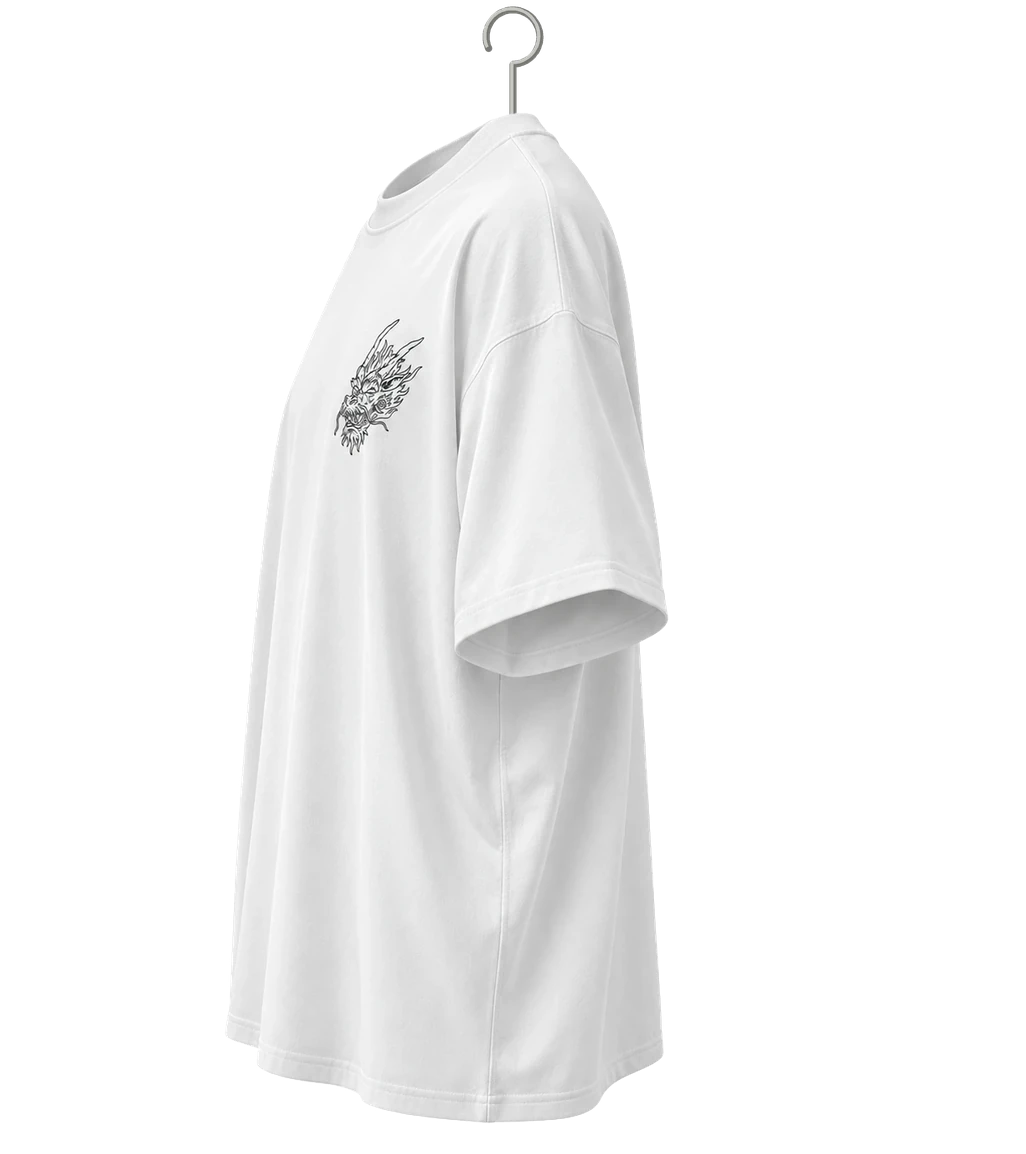
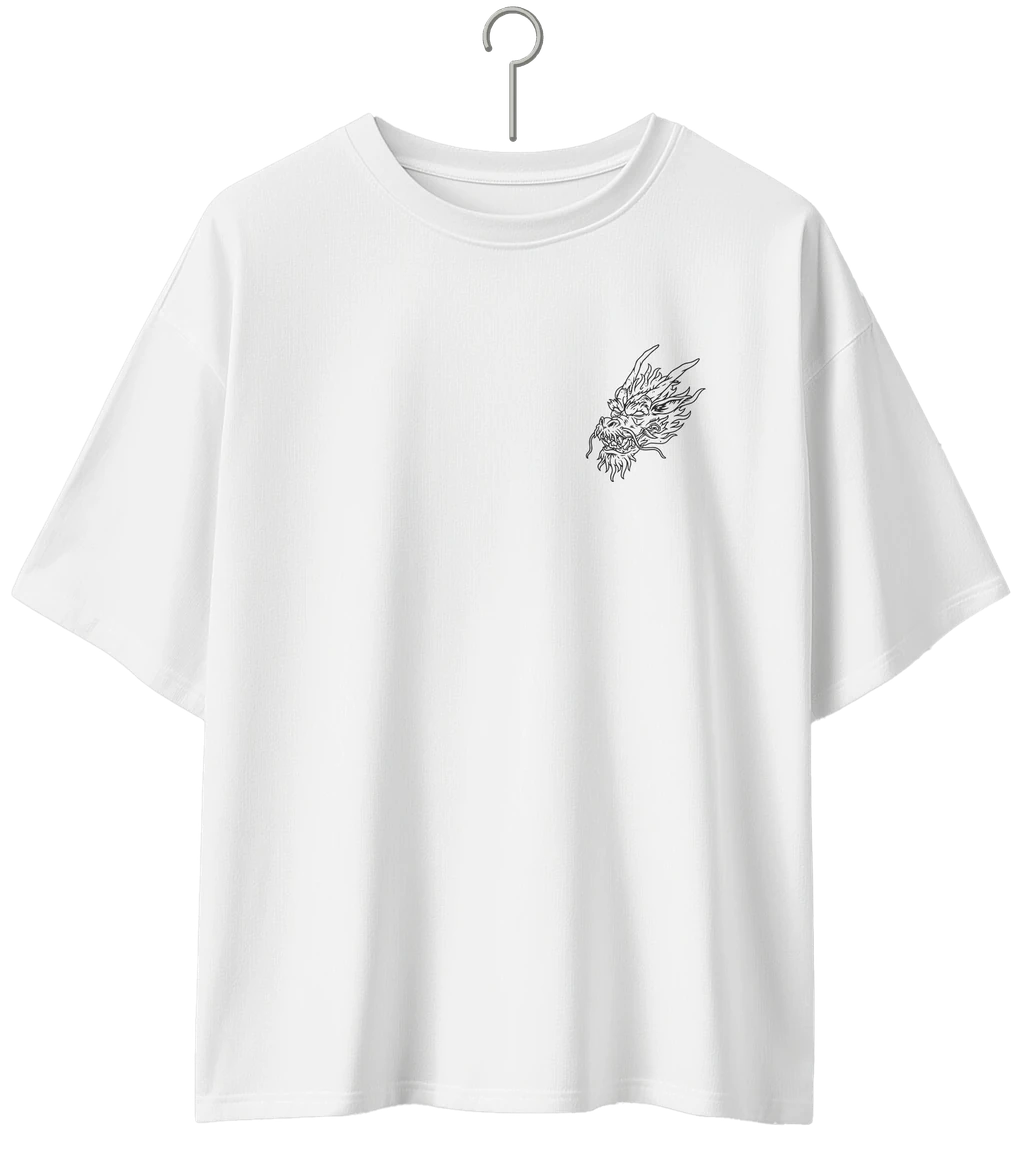
Show angled mockups on the rail and flat fronts when a shirt turns
Each piece hangs with its angled view and cross-fades to the flat front
on hover and in the detail view.

Claude-Session: https://claude.ai/code/session_01KS3zFa9ZHKkygYPNsyMhrA

diff --git a/src/components/kria-rack.tsx b/src/components/kria-rack.tsx
@@ -2,10 +2,13 @@ import { useEffect, useState, type CSSProperties } from "react";
 import { ArrowLeft, ArrowRight, X } from "lucide-react";
 import blackBack from "@/assets/kria-rack/black-back.webp";
 import blackFront from "@/assets/kria-rack/black-front.webp";
+import blackRack from "@/assets/kria-rack/black-rack.webp";
 import rageBack from "@/assets/kria-rack/rage-back.webp";
 import rageFront from "@/assets/kria-rack/rage-front.webp";
+import rageRack from "@/assets/kria-rack/rage-rack.webp";
 import whiteBack from "@/assets/kria-rack/white-back.webp";
 import whiteFront from "@/assets/kria-rack/white-front.webp";
+import whiteRack from "@/assets/kria-rack/white-rack.webp";
 import { useLanguage } from "@/i18n/language-context";
 import { interpolate } from "@/i18n/translations";
 import "./kria-rack.css";
@@ -17,6 +20,9 @@ type Garment = {
   id: string;
   name: string;
   // Mockups: transparent images sharing the same framing (hanger hook at the top).
+  // rackImage is the angled view shown while the piece hangs on the rail;
+  // it gives way to frontImage when the piece turns to face the visitor.
+  rackImage: string;
   frontImage: string;
   backImage: string;
   // Optional artwork placed over the mockup, e.g.
@@ -26,21 +32,22 @@ type Garment = {
 };
 
 const garments: Garment[] = [
-  { id: "npc", name: "Don't Be an NPC Tee — White", frontImage: whiteFront, backImage: whiteBack },
-  { id: "dragon-soul", name: "Dragon Soul Tee — Black", frontImage: blackFront, backImage: blackBack },
-  { id: "sem-rage", name: "Sem Rage Sem Like Tee — Black", frontImage: rageFront, backImage: rageBack },
+  { id: "npc", name: "Don't Be an NPC Tee — White", rackImage: whiteRack, frontImage: whiteFront, backImage: whiteBack },
+  { id: "dragon-soul", name: "Dragon Soul Tee — Black", rackImage: blackRack, frontImage: blackFront, backImage: blackBack },
+  { id: "sem-rage", name: "Sem Rage Sem Like Tee — Black", rackImage: rageRack, frontImage: rageFront, backImage: rageBack },
 ];
 
 const SPACING = 11; // distance between hangers, in cqw
 const HOVER_SHIFT = 9.5; // how far neighbours slide away from the hovered piece
-const SIDE_ANGLE = -42; // resting rotation on the rack (the front mockups are already angled)
+const SIDE_ANGLE = -24; // resting rotation on the rack (the rack mockups are already angled)
 
 function Shirt({ garment, side }: { garment: Garment; side: "front" | "back" }) {
   const print = side === "front" ? garment.front : garment.back;
 
   return (
     <span className="kria-rack-face" data-side={side}>
-      <img className="kria-rack-mockup" src={side === "front" ? garment.frontImage : garment.backImage} alt="" draggable={false} />
+      {side === "front" && <img className="kria-rack-mockup" data-layer="rack" src={garment.rackImage} alt="" draggable={false} />}
+      <img className="kria-rack-mockup" data-layer={side} src={side === "front" ? garment.frontImage : garment.backImage} alt="" draggable={false} />
       {print && <img
         className="kria-rack-print"
         src={print.src}
@@ -112,6 +119,7 @@ export function KriaRack() {
               className="kria-rack-item"
               style={style}
               data-selected={isSelected}
+              data-facing={isSelected || hovered === index ? "front" : "rack"}
               data-sway={open || hovered === null ? undefined : hovered === index ? "main" : "side"}
               data-hidden={open && !isSelected}
               tabIndex={open && !isSelected ? -1 : 0}

diff --git a/src/components/kria-rack.css b/src/components/kria-rack.css
@@ -111,7 +111,14 @@
   -webkit-backface-visibility: hidden;
 }
 .kria-rack-face[data-side="back"] { transform: rotateY(180deg); }
-.kria-rack-mockup { display: block; width: 100%; height: 100%; object-fit: contain; }
+.kria-rack-mockup { position: absolute; inset: 0; display: block; width: 100%; height: 100%; object-fit: contain; }
+
+/* On the rail a piece shows its angled view; turning to face the visitor
+   cross-fades it into the flat front while the hanger rotates. */
+.kria-rack-mockup[data-layer="rack"],
+.kria-rack-mockup[data-layer="front"] { transition: opacity 420ms ease 80ms; }
+.kria-rack-item[data-facing="rack"] .kria-rack-mockup[data-layer="front"],
+.kria-rack-item[data-facing="front"] .kria-rack-mockup[data-layer="rack"] { opacity: 0; }
 .kria-rack-print { position: absolute; height: auto; pointer-events: none; }
 
 .kria-rack-caption {
